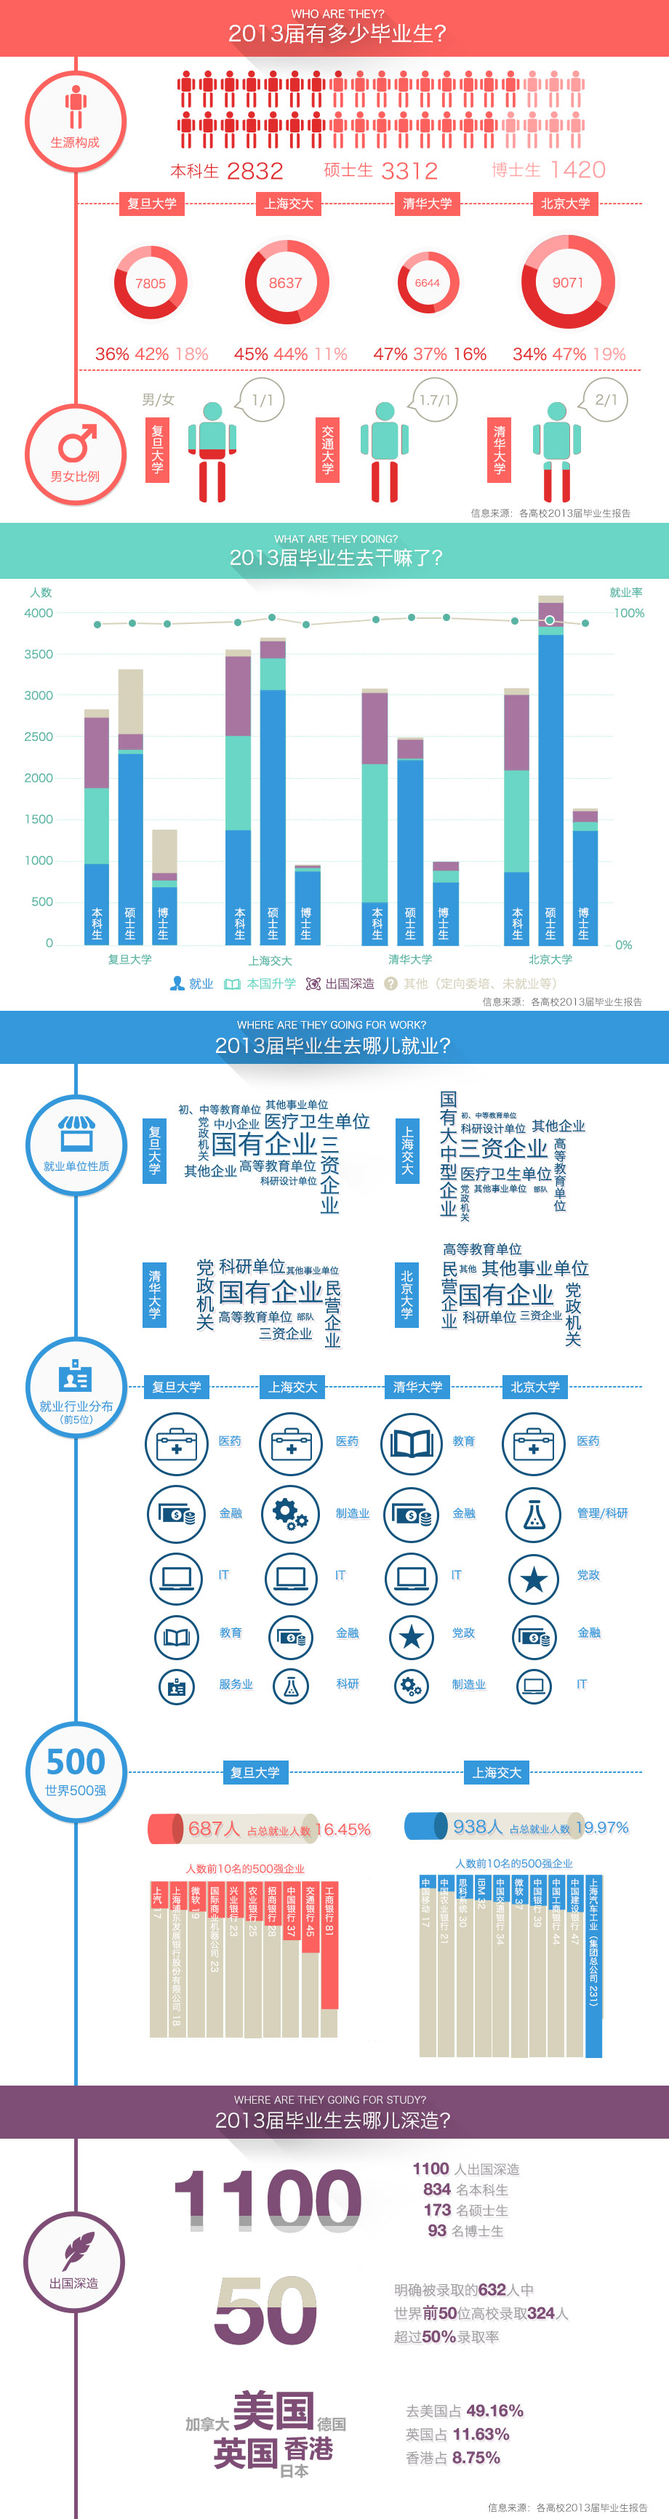
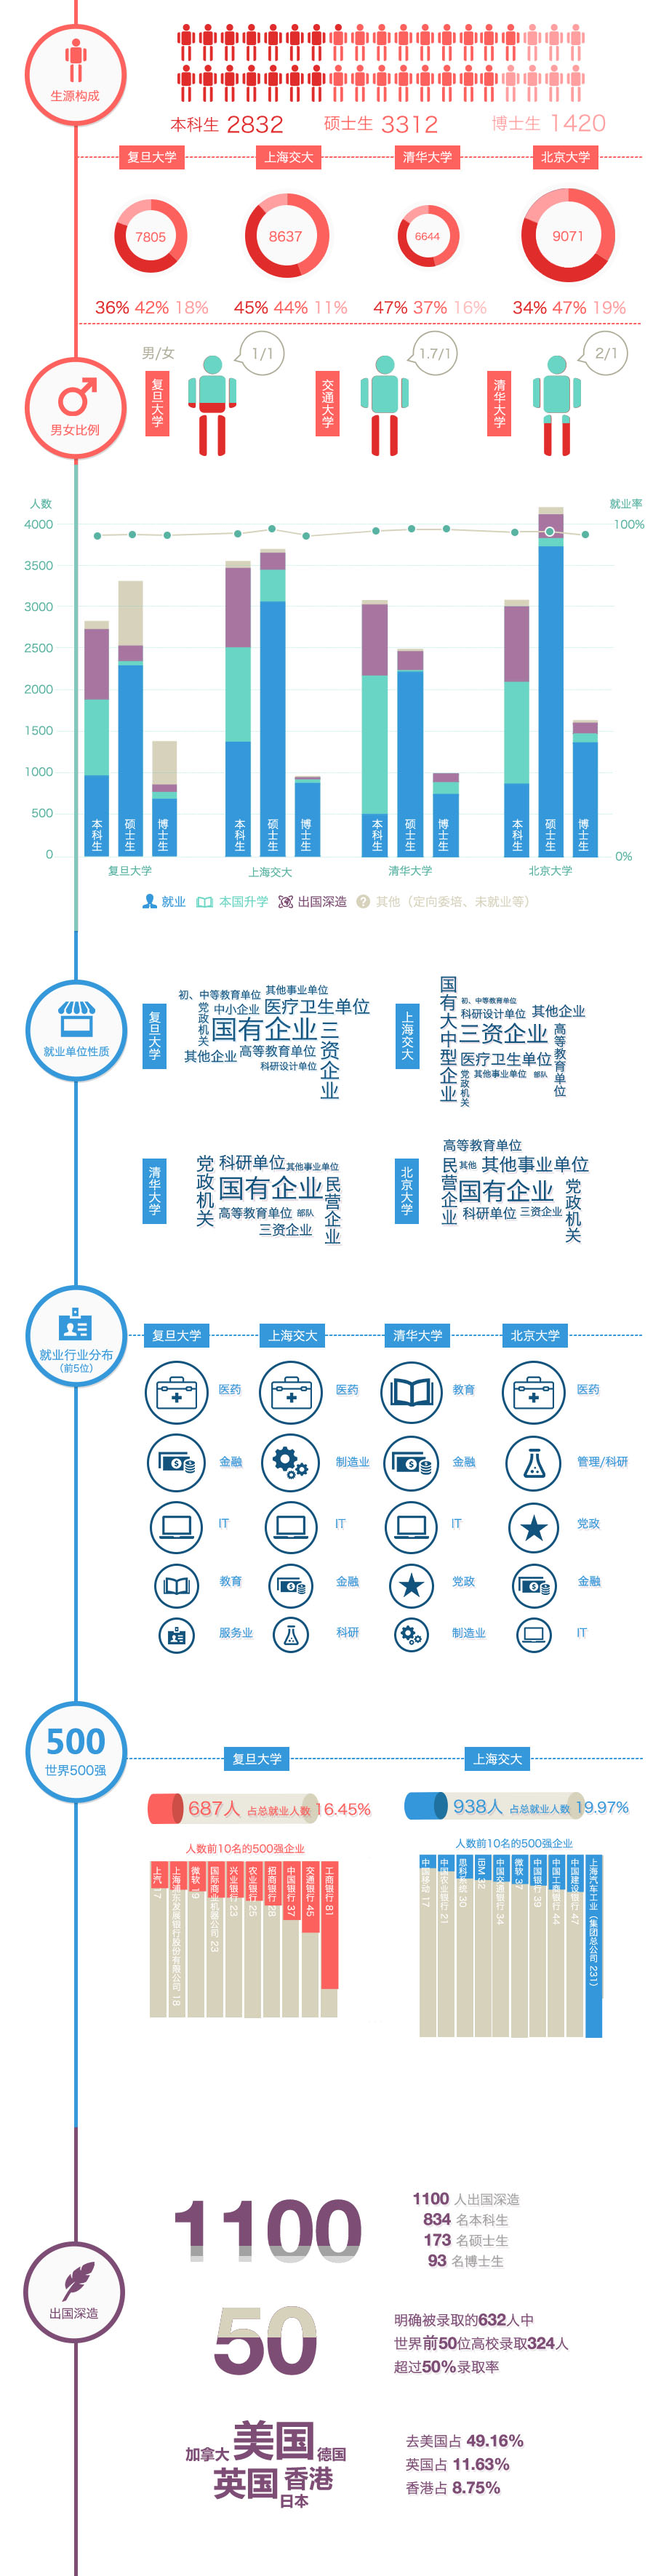
Daily Commit

diff --git a/graduate/js/graduate.js b/graduate/js/graduate.js
@@ -1,9 +1,88 @@
-var root=[new Object(),new Object()];
+var currentNavId=0;
+var currentSubNavId=0;
+var ColoumPixel=[0,-640,-1280,-2925];
+var ColoumColor=["#fd625e","#58b3a3","#3497db","#7e4d76"]
+var IntroWord=["2013届有多少毕业生?","2013届毕业生去干嘛了?","2013届毕业生去哪儿就业?","2013届毕业生去哪儿深造?"]
+var WorkSubColoumPixel=[0,452,553];
 
-$(document).ready(function(){	
-	init1();
-	init2();
-	$("#page_left > div").css("display", "none");
-    $("#fdurop_intro").css("display", "block");
+$(document).ready(function()
+{
+	drawSubNav();
+	$(".graph").bind("mousewheel",function(event){
+        if(currentNavId==2){
+        		event.preventDefault();
+        		var moveDirection = event.deltaY>0?1:-1;
+        		currentSubNavId=currentSubNavId-moveDirection;
+        		if(currentSubNavId<0){currentSubNavId=0;}
+        		if(currentSubNavId>2){currentSubNavId=2;}
+        		console.log(currentSubNavId);
+        		setSubNavStatus("subNav_"+currentSubNavId);
+        		jumpOver(currentSubNavId);
+        }
+    });
 });
 
+
+function updateInfo(index)
+{
+	$(".intro").html(IntroWord[index]);
+	$(".header_canvas").css("background-color",ColoumColor[index]);
+	$(".graph").animate({top:ColoumPixel[index]});
+	currentNavId=index;
+	if (index==2){
+		setSubNavStatus("subNav_0");
+		jumpOver(0);
+	}		
+}
+
+function drawSubNav(){
+	var subNav = d3.select("#graph_nav").append("svg");
+	var i=0;
+	for(i=0;i<3;i++)
+	{
+
+		subNav.append("circle")
+			.attr("id","subNav_" + i)
+			.attr("r",4)
+		  	.attr("cursor","pointer")
+			.attr("cx",10)
+			.attr("cy",i * 20 + 15)
+			.attr("fill","#BCBEC0")
+			.on("click",function()
+			{
+				setSubNavStatus(d3.select(this).attr("id"));
+				jumpOver(d3.select(this).attr("id").split('_')[1]);
+			});
+
+	}
+	setSubNavStatus("subNav_0");
+}
+
+function setSubNavStatus(navId)
+{
+	var i=0;
+	for(i=0;i<3;i++)
+	{
+		if(navId == "subNav_" + i)
+		{
+			d3.select("#"+navId)
+				.style("fill", "#6D6E71");
+		}
+		else
+		{
+			d3.select("#subNav_" + i)
+				.style("fill", "#BCBEC0");
+		}
+	}
+	currentSubNavId=navId.split('_')[1];
+}
+
+function jumpOver(navId){
+	var i=0;
+	var delta=0;
+	for(i=0;i<=navId;i++){
+		delta=delta+WorkSubColoumPixel[i];
+	}
+	$("#graph_nav").animate({top:1370+delta});
+	$(".graph").animate({top:ColoumPixel[2]-delta;left:"100px";},function(){alert(1);console.log(1);});
+}

diff --git a/fdurop/js/data.js b/fdurop/js/data.js
@@ -215,7 +215,55 @@ function init1(){
 		});
 
 	}
+	function foreword(){
+		d3.select("#content")
+	  .append("div")
+	  .attr("id", "foreword")
+	   .on("mousedown", function(e){
+		  d3.select("#foreword")
+		  	.transition()
+		  	.duration(1000)
+		  	.style("opacity",0);
+	   })
+	  .style("opacity", "0")
+	  .style("-moz-opacity", "0")
+	  .style("filter", "alpha(opacity=0)")
+	  .transition()
+	  .duration(500)
+	  .style("opacity", "1")
+	  .style("-moz-opacity", "1")
+	  .style("filter", "alpha(opacity=100)");
+	
+	d3.select("#foreword")
+	  .append("div")
+	  .attr("id", "foreword_rect")
+	  .style("position", "absolute")
+      .append("div")
+	  .style("padding", "0px")
+	  .style("width", "450px")
+	  .style("height", "220px")
+	  .style("margin-top", "140px")
+	  .style("margin-left", "280px")
+	  .style("background-color", "#333")
+	  .style("background-repeat", "no-repeat")
+	  .style("background-image", "url(http://file.caixin.com/datanews/sangong/img/close.png)")
+	  .style("background-position", "right top");
+	
+	d3.select("#foreword_rect")
+	  .append("div")
+	  .attr("id", "foreword_text")
+	  .style("position", "absolute")
+	  .style("width", "410px")
+	  .style("margin-top", "-210px")
+	  .style("margin-left", "280px")
+	  .style("padding", "20px")
+	  .style("font-size", "14px")
+	  .style("color", "#FFF")
+	  .html("<h1 style='font-size:18px;text-align: center'>前 言</h1><p>&nbsp;</p><p>这里是由复旦学生网和《复旦青年》报社联合创立的复旦信息可视化实验室，「数读复旦」是这个实验室开发的第一款数据新闻产品。在这里，你将从另一个角度打量复旦，感受数据有灵且美。我们的最新专题有关于复旦、上交、清华、北大四校2013届学生的毕业去向，点击<a href=\"http://stu.fudan.edu.cn/infofudan/graduate/\" style=\"color:#f75b49\"><strong>这里</strong></a>从数据了解四校性格差异。前言背后，是实验室创建时的第一个专题，同样值得留步。</p>");
+	
+	}
 	drawData();
+	foreword();	
 	isFirst=0;
 }
 
@@ -432,3 +480,4 @@ function init2(){
 	drawDeptName();
 	drawData();
 }
+

diff --git a/graduate/index.html b/graduate/index.html
@@ -6,6 +6,8 @@
 	<link rel="stylesheet" type="text/css" href="css/graduate.css">
 	<script language="javascript" src="js/jquery-2.0.3.js"></script>
 	<script language="javascript" src="js/d3.v3.js"></script>
+	<script language="javascript" src="js/jquery.mousewheel.js"></script>
+	<script language="javascript" src="js/graduate.js"></script>
     <!--[if lte IE 8]><script language="javascript" src="js/r2d3.js" charset="utf-8"></script><![endif]-->
     
 
@@ -30,7 +32,7 @@
 	<div class="content_layout">
 		<div id="content">
 			<div class="header_canvas">
-				<div class="intro">2013届毕业生都去哪儿深造?</div>
+				<div class="intro">2013届有多少毕业生?</div>
 				<div class="nav_bar">
 					<ul id="nav">
 						<li><a href="#" class="nav_btn nav_btn_current">生源构成</a></li>
@@ -41,7 +43,9 @@
 				</div>
 			</div>
 			<div class="graph_canvas">
-				<div id="graph" class="graph"></div>
+				<div id="graph" class="graph">
+					<div id="graph_nav"></div>
+				</div>
 			</div>
 		</div>
 		<div clear="all"></div>
@@ -59,15 +63,11 @@
 		<div class="footer_logo"><img src="images/footer_logo.png"/></div>
 	</div>
 	<script type="text/javascript">
-		$("#sidebar ul li a").click(function () {
+		$(".nav_bar ul li a").click(function () {
     		var i = $(this).parent().index();
-    		$("#sidebar ul li a").removeClass("nav_btn_current");
+    		$(".nav_bar ul li a").removeClass("nav_btn_current");
     		$(this).addClass("nav_btn_current");
-    		$("#page_left > div").hide();
-    		$(".node").remove();
-    			$("#page_left > div").eq(i).fadeIn(1000, function () {
-					if(i<2){root[i].update();}
-    			});
+    		updateInfo(i);
 		});
 	</script>
 </body>

diff --git a/graduate/css/graduate.css b/graduate/css/graduate.css
@@ -64,7 +64,7 @@ div{
 	height: 42px;
 	margin-top:40px;
 	margin-left: 20px;
-	background-color: #f75b49;	
+	background-color: #fd625e;	
 }
 .intro{
 	float: left;	
@@ -101,7 +101,7 @@ div{
 .graph_canvas{
 	position: absolute;
 	width: 960px;
-	height: 630px;
+	height: 640px;
 	overflow: hidden;
 }
 
@@ -109,9 +109,16 @@ div{
 	position: absolute;
 	width: 920px;
 	height: 4000px;
-	top: -80px;
 	margin-left: 20px;
 	background-image: url(../images/graduate2.jpg);
+}
+
+#graph_nav{
+	position: absolute;
+	width: 20px;
+	height: 180px;
+	top:1370px;
+	left: 890px;
 }
 
 /*footer */

diff --git a/fdurop/css/fdurop.css b/fdurop/css/fdurop.css
@@ -12,6 +12,7 @@ p{
 
 a{
 	text-decoration: none;
+	color: #7c7878;
 
 }
 
@@ -270,4 +271,8 @@ div{
 
 .footer_logo{
 	margin:10px auto;
+}
+
+.foreword_text{
+	line-height: 200%;
 }

diff --git a/fdurop/js/main.js b/fdurop/js/main.js
@@ -7,3 +7,4 @@ $(document).ready(function(){
     $("#fdurop_intro").css("display", "block");
 });
 
+
